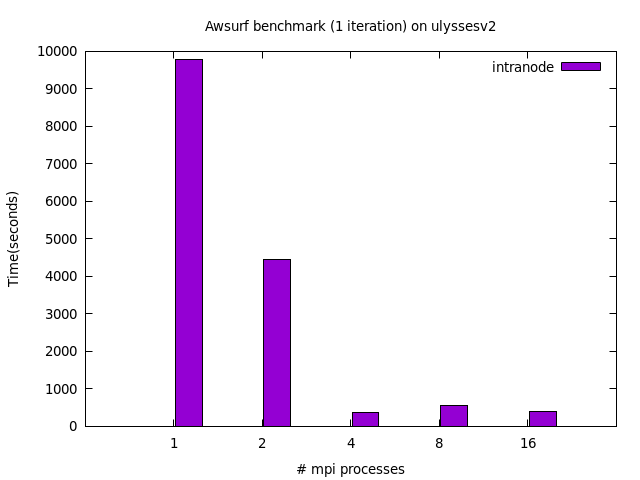
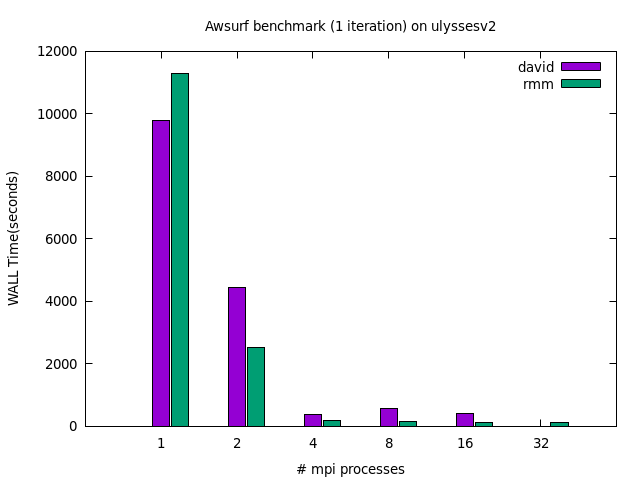
add intranode plot

diff --git a/installation_benchmark/report.md b/installation_benchmark/report.md
@@ -70,7 +70,7 @@ with n=1, 2, 4, 8, 16, 32
 
 For this test, as the WALL time was quite significative i set to 1 the iteration number in the input file, so it runs for just one iteration.
 
-<img src="plot_intranode.png" style="zoom:67%;" />
+<img src="plot_intranode_david.png" style="zoom:67%;" />
 
 **Internode test**
 
@@ -90,4 +90,13 @@ In this case as the WALL time was quite short,  the simulation run for two inter
 
 **intranode**
 
+<img src="plot_intranode.png" style="zoom:67%;" />
+
+
+
+
+
+**internode**
+
 <img src="plot_internode.png" style="zoom:67%;" />
+
